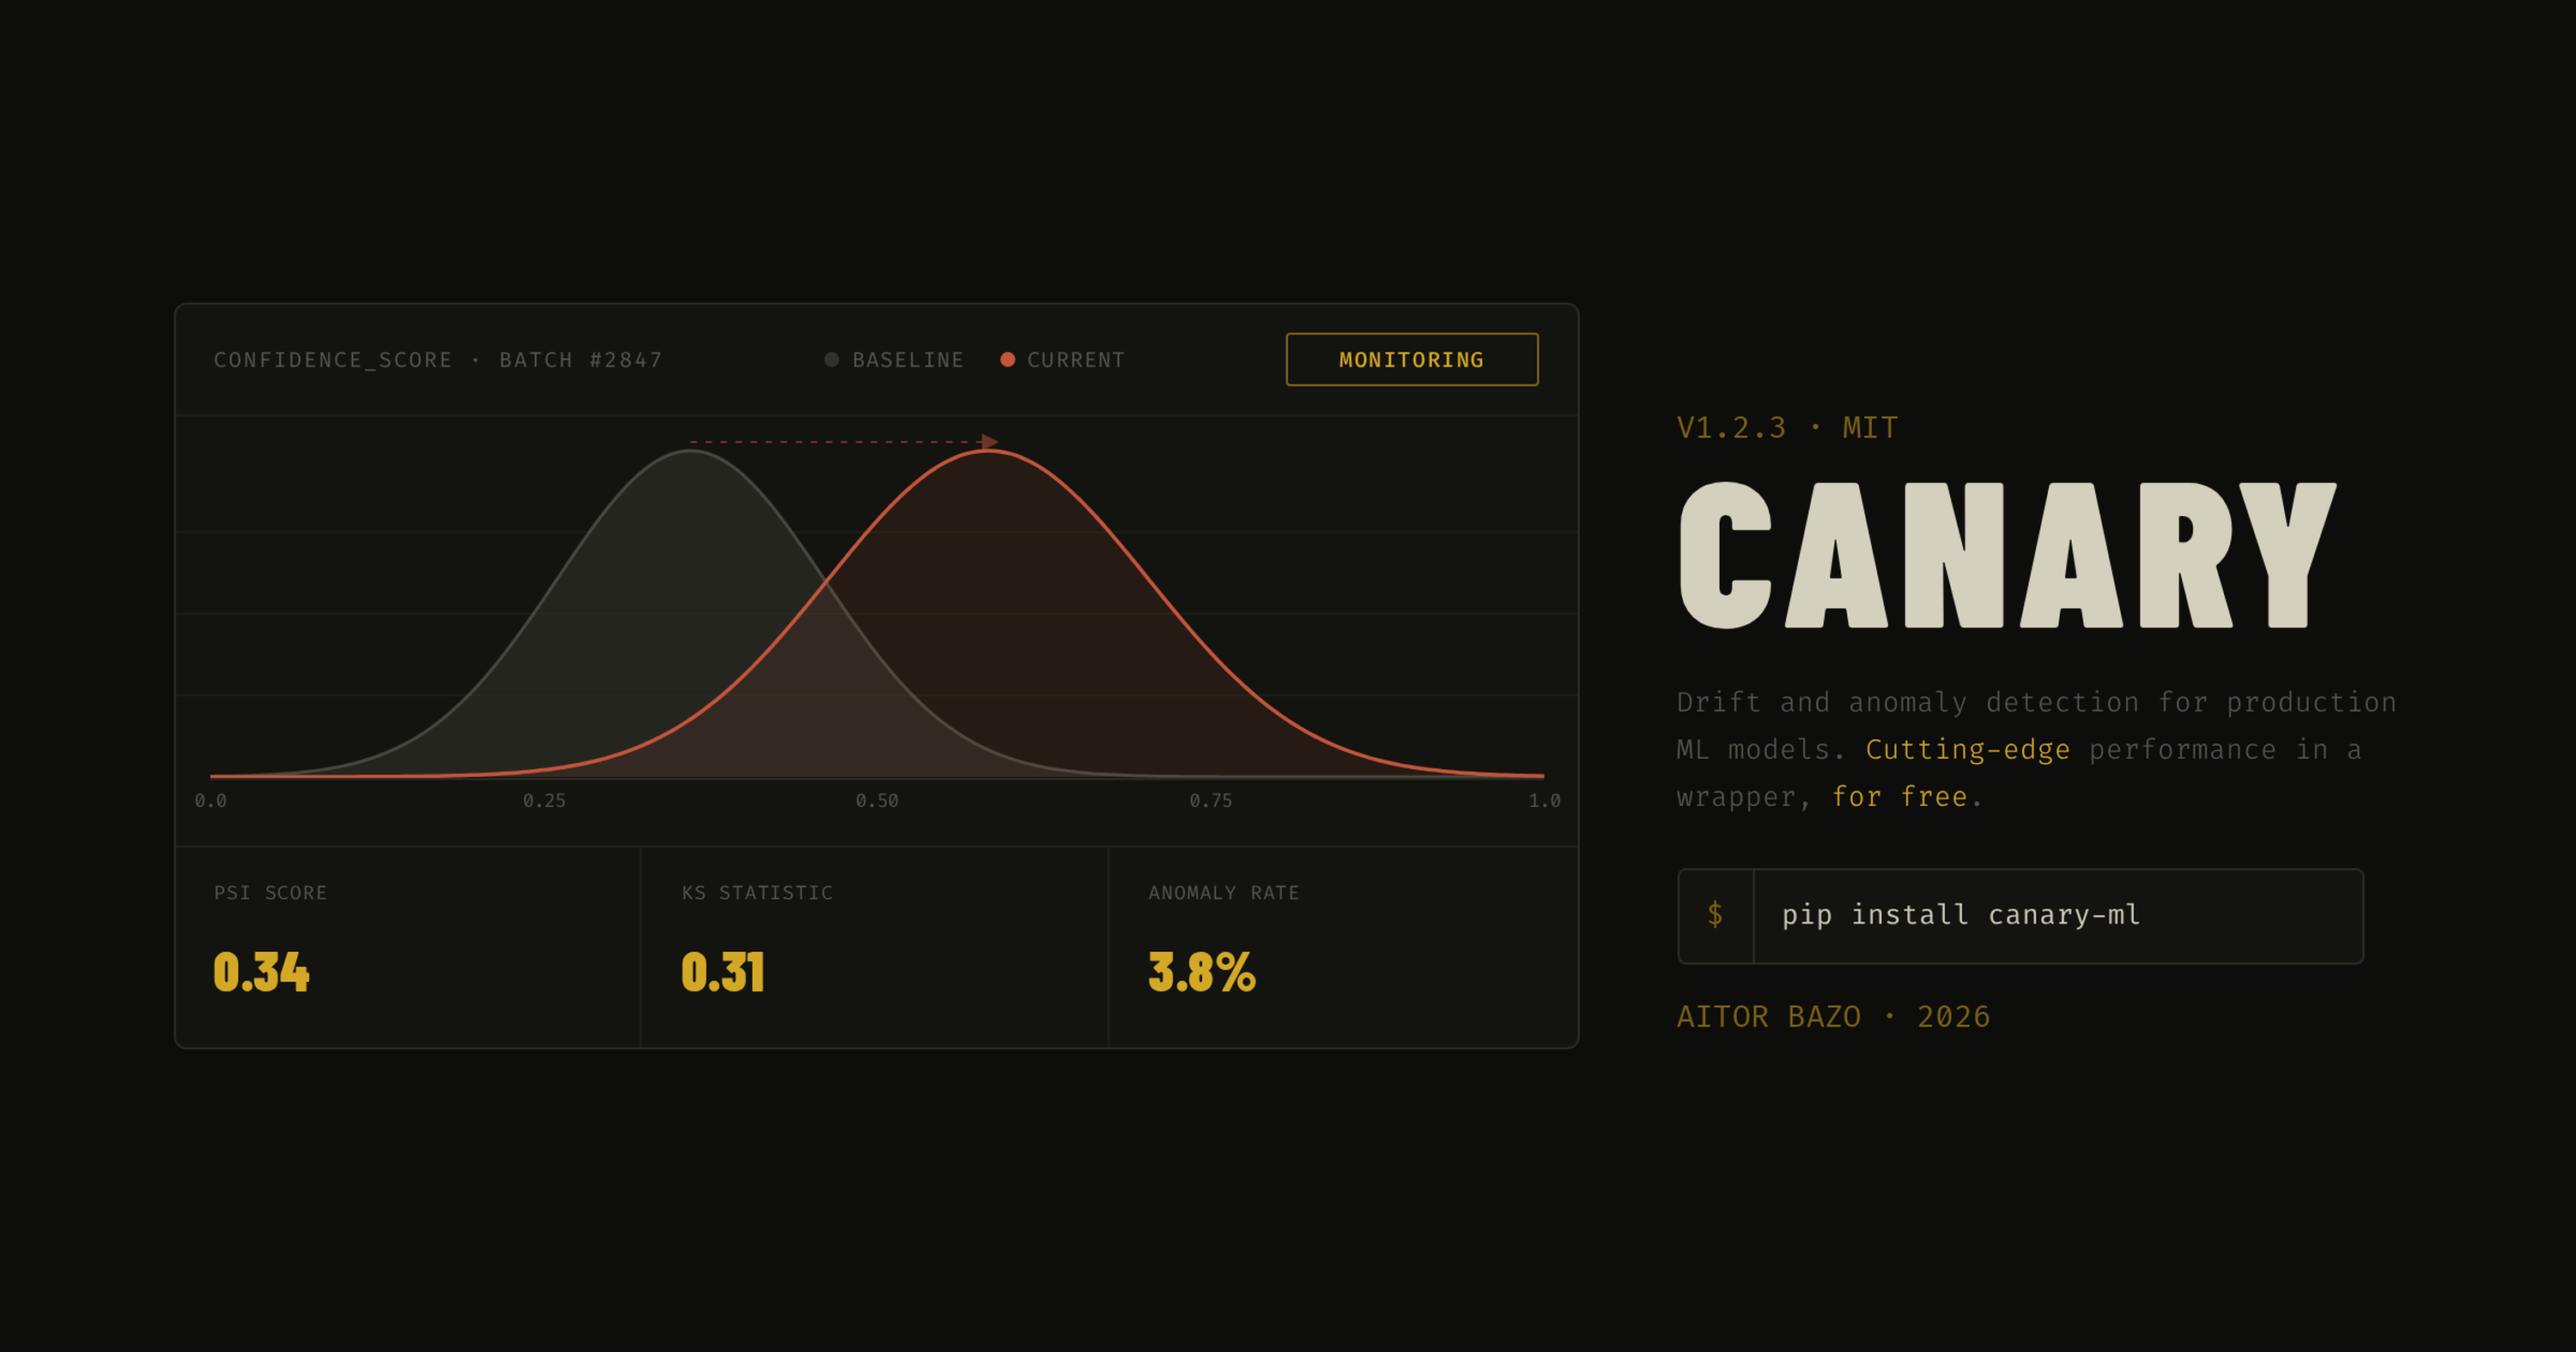
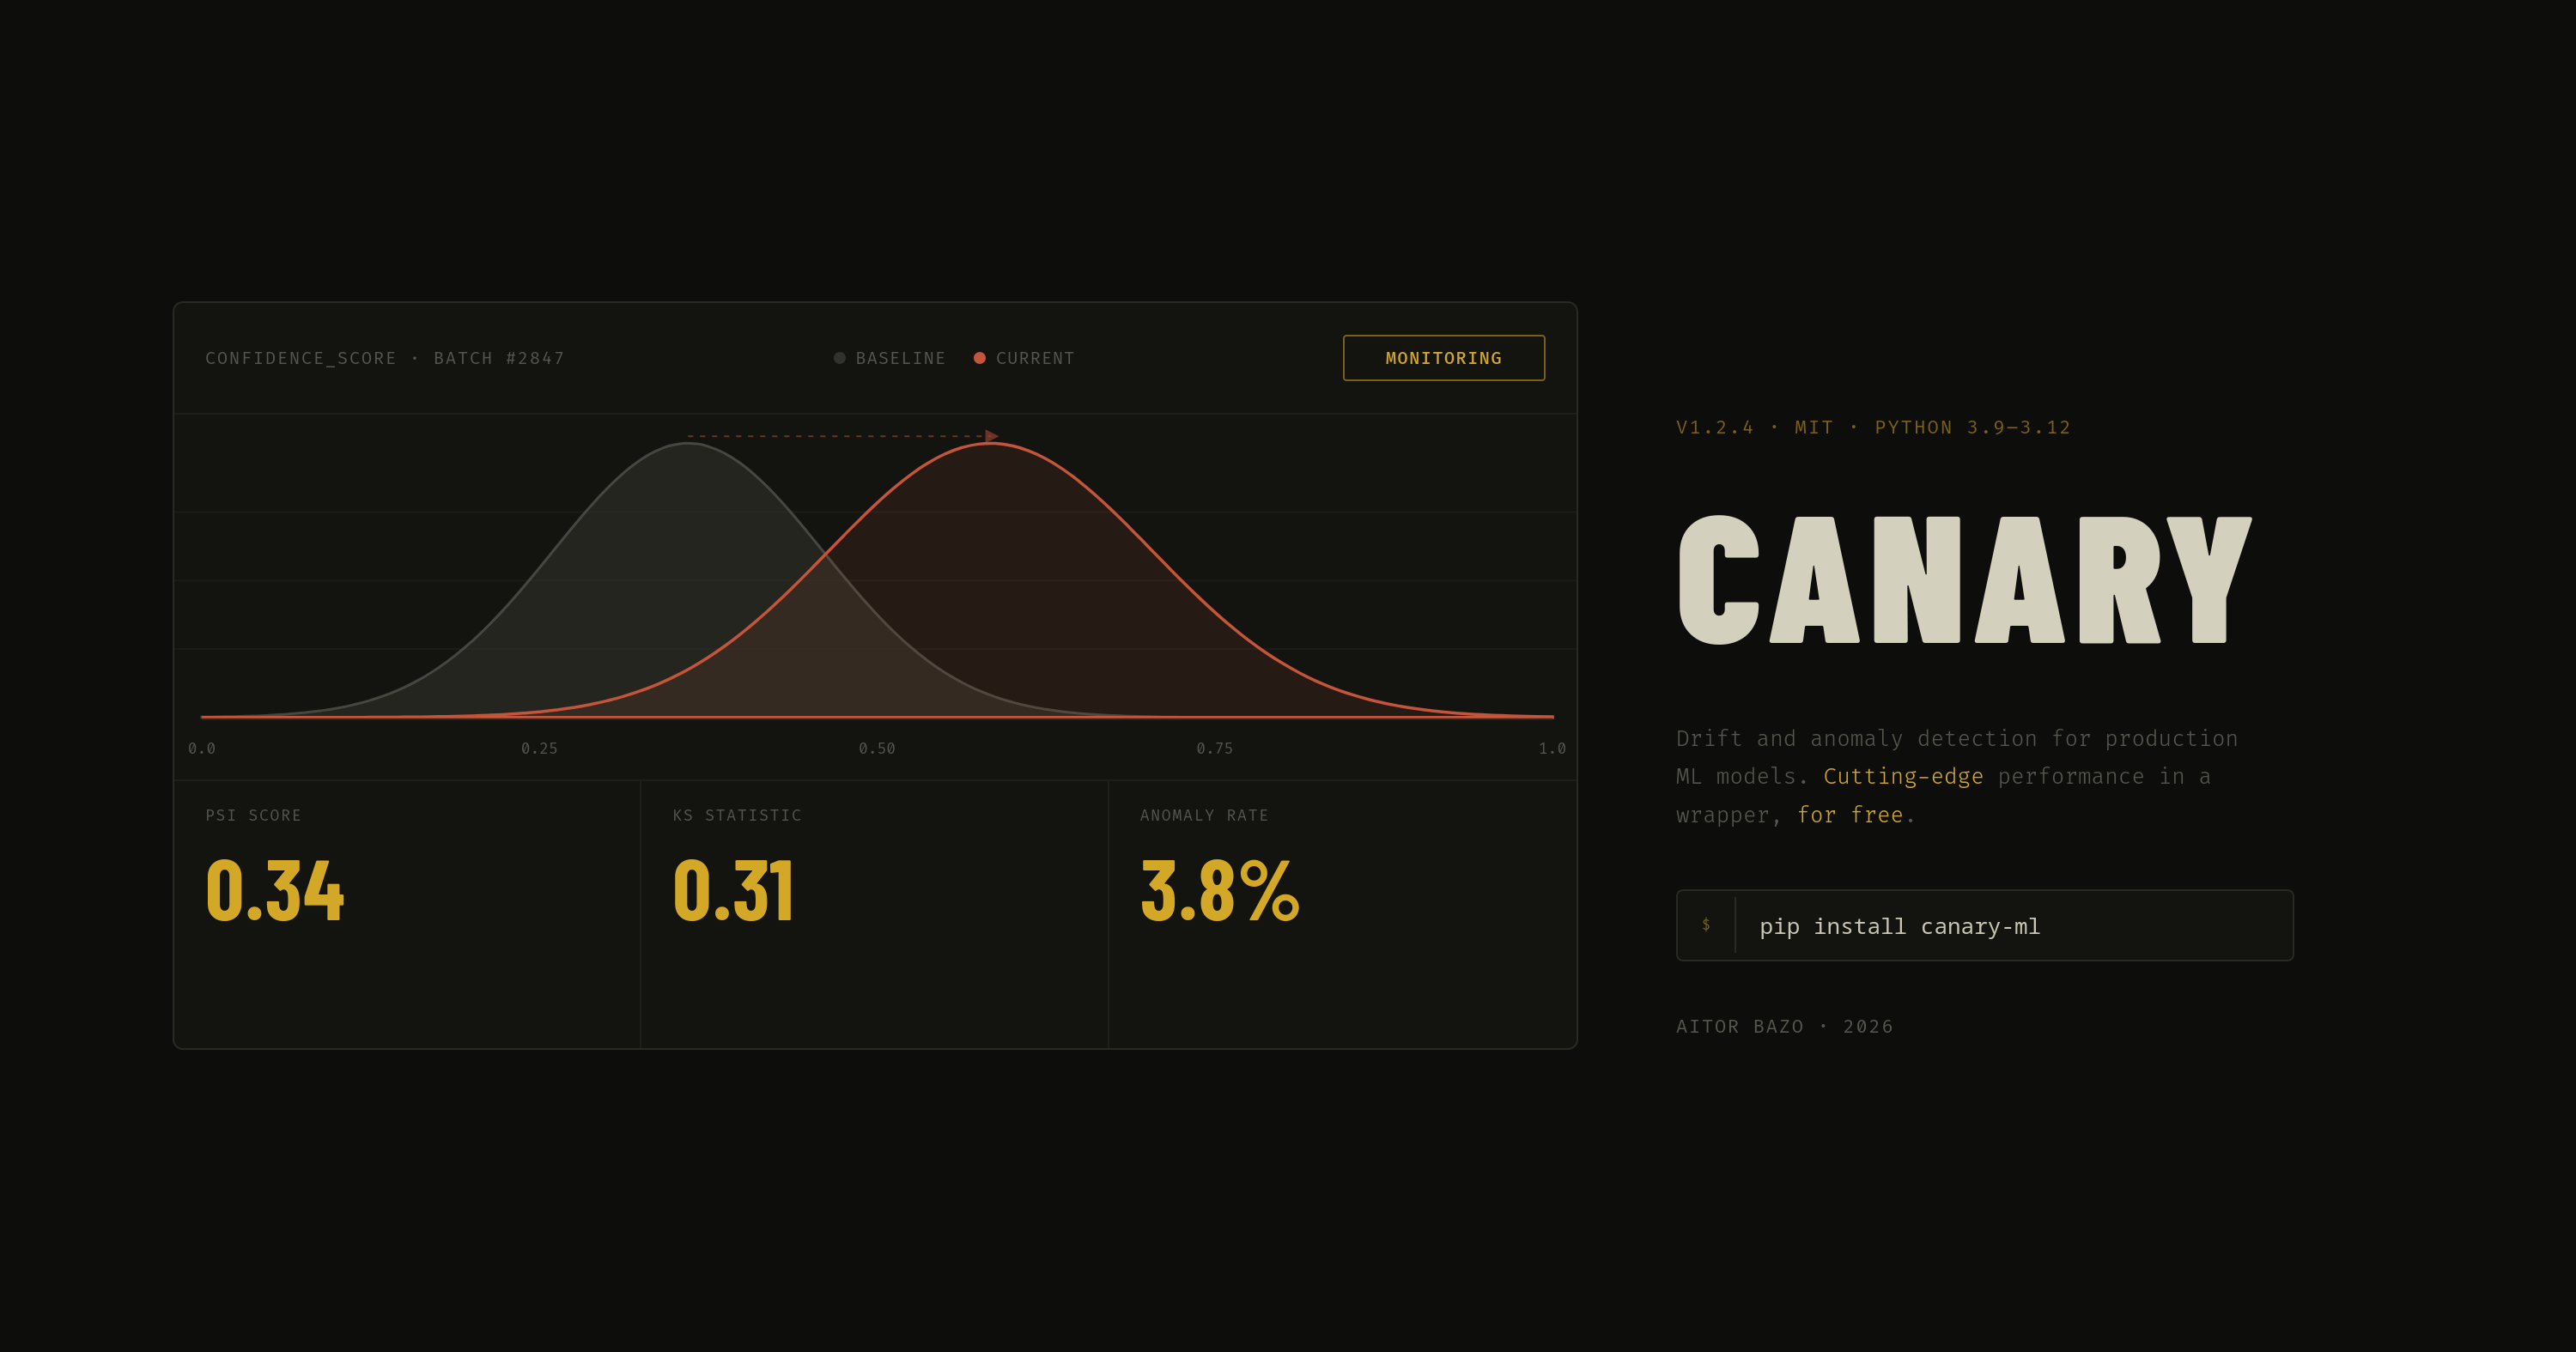
v1.2.4: PyPI license metadata, dashboard localhost binding, audit-5 fixes, og:image version bump

diff --git a/docs/guide.html b/docs/guide.html
@@ -26,7 +26,7 @@
       --violet:  #9a7ed0;
     }
 
-    html { scroll-behavior: smooth; }
+    html { scroll-behavior: smooth; -webkit-text-size-adjust: 100%; -moz-text-size-adjust: 100%; text-size-adjust: 100%; }
 
     body {
       background: var(--bg);
@@ -65,13 +65,13 @@
       grid-template-columns: 220px 1fr;
       max-width: 1200px;
       margin: 0 auto;
-      padding-top: 72px;
+      padding-top: 90px;
       min-height: 100vh;
     }
 
     /* SIDEBAR */
     .sidebar {
-      position: sticky; top: 72px; height: calc(100vh - 72px);
+      position: sticky; top: 90px; height: calc(100vh - 90px);
       overflow-y: auto; padding: 36px 28px 36px 52px;
       border-right: 1px solid var(--border);
     }
@@ -347,7 +347,7 @@
         <tr><td><code>alert_threshold</code></td><td><code>0.2</code></td><td>PSI score above which a drift alert fires</td></tr>
         <tr><td><code>performance_threshold</code></td><td><code>0.05</code></td><td>Accuracy drop (percentage points) below reference that fires a performance alert. Requires <code>predict_proba</code>.</td></tr>
         <tr><td><code>log_path</code></td><td><code>"./canary_logs"</code></td><td>Directory for <code>monitor.jsonl</code> and <code>reference.json</code></td></tr>
-        <tr><td><code>verbose</code></td><td><code>False</code></td><td>Print a rich alert panel to stdout when an alert fires</td></tr>
+        <tr><td><code>verbose</code></td><td><code>True</code></td><td>Print a rich alert panel to stdout when an alert fires</td></tr>
         <tr><td><code>on_alert</code></td><td><code>None</code></td><td>Callback function called with the <code>DriftReport</code> on alert</td></tr>
       </table>
 
@@ -680,7 +680,7 @@ E[accuracy] = mean( max(probas, axis=1) )   <span class="cm"># average over batc
       <div class="section-eyebrow">advanced</div>
       <h2>Alerts & callbacks</h2>
 
-      <p>When PSI exceeds <code>alert_threshold</code>, canary fires an alert. By default this is silent. Set <code>verbose=True</code> for a printed panel, or pass <code>on_alert</code> for programmatic handling.</p>
+      <p>When PSI exceeds <code>alert_threshold</code>, canary fires an alert. By default a rich panel is printed to stdout (<code>verbose=True</code>). Set <code>verbose=False</code> to suppress console output, or pass <code>on_alert</code> for programmatic handling.</p>
 
       <pre><code><span class="kw">def</span> <span class="id">notify</span>(report):
     <span class="cm"># report is a DriftReport with all metrics attached</span>
@@ -800,6 +800,8 @@ const observer = new IntersectionObserver(entries => {
 }, { rootMargin: '-20% 0px -70% 0px' });
 
 document.querySelectorAll('.section[id]').forEach(s => observer.observe(s));
+
+
 </script>
 </body>
 </html>

diff --git a/docs/demo.html b/docs/demo.html
@@ -10,6 +10,8 @@
   <style>
     *, *::before, *::after { box-sizing: border-box; margin: 0; padding: 0; }
 
+    html { -webkit-text-size-adjust: 100%; -moz-text-size-adjust: 100%; text-size-adjust: 100%; }
+
     :root {
       --bg:        #0d0d0b;
       --surface:   #131310;
@@ -216,7 +218,6 @@
     @media (max-width: 860px) {
       #header { padding: 14px 20px; height: 62px; }
       #cards  { grid-template-columns: repeat(2,1fr); }
-      #heatmap { overflow-x: auto; -webkit-overflow-scrolling: touch; }
     }
 
     @media (max-width: 500px) {
@@ -684,10 +685,10 @@ function renderHeatmap() {
   const totalBatches = S.entries.length;
   const startIdx     = totalBatches - entries.length;
   const batchLabels  = entries.map((_, i) => `B${startIdx + i + 1}`);
-  const nameW   = 110;
   const panelW  = el.getBoundingClientRect().width || 600;
+  const nameW   = panelW < 480 ? 60 : 110;
   const gapPx   = entries.length * 2;
-  const cellW   = Math.max(8, (panelW - nameW - 10 - gapPx) / entries.length);
+  const cellW   = Math.max(2, (panelW - nameW - 10 - gapPx) / entries.length);
   const colsTemplate = `${nameW}px repeat(${entries.length}, ${cellW}px)`;
 
   // Thin out labels when cells are too narrow for "B##" to fit without overlapping.

diff --git a/docs/index.html b/docs/index.html
@@ -29,7 +29,7 @@
       --red:     #bf4040;
     }
 
-    html { scroll-behavior: smooth; }
+    html { scroll-behavior: smooth; -webkit-text-size-adjust: 100%; -moz-text-size-adjust: 100%; text-size-adjust: 100%; }
 
     body {
       background: var(--bg);
@@ -72,7 +72,7 @@
 
     /* HERO */
     .hero {
-      padding: 72px 52px 36px;
+      padding: 90px 52px 36px;
       display: grid;
       grid-template-columns: 5fr 7fr;
       gap: 44px;
@@ -275,7 +275,7 @@
 
 <section class="hero">
   <div class="hero-left">
-    <div class="hero-eyebrow">v1.2.3 · MIT · Python 3.9–3.12</div>
+    <div class="hero-eyebrow">v1.2.4 · MIT · Python 3.9–3.12</div>
     <h1>CANARY</h1>
     <p class="hero-sub">Drift and anomaly detection for production ML models. <span style="color:var(--yellow)">Cutting-edge</span> performance in a wrapper, <span style="color:var(--yellow)">for free</span>.</p>
     <div class="install-row">

diff --git a/canary_ml/monitor.py b/canary_ml/monitor.py
@@ -121,10 +121,6 @@ class ModelMonitor:
         self._executor.shutdown(wait=True, cancel_futures=False)
         self._executor = ThreadPoolExecutor(max_workers=1, thread_name_prefix="canary")
 
-    def _flush(self) -> None:
-        """Alias for wait(). For backwards compatibility with existing tests."""
-        self.wait()
-
     def get_history(self, n: int = 50) -> list[dict[str, Any]]:
         """Return the last *n* log entries."""
         return self._log.read_last(n)
@@ -138,10 +134,21 @@ class ModelMonitor:
         self._reference_outputs = _safe_predict(self._model, self._reference)
         self._save_reference_sample()
 
-    def serve_dashboard(self, port: int = 8501) -> None:
-        """Launch the canary dashboard server in a background thread."""
+    def serve_dashboard(self, port: int = 8501, *, host: str = "127.0.0.1") -> None:
+        """Launch the canary dashboard server in a background thread.
+
+        Raises OSError if the port is already in use (e.g. calling this
+        twice, or another process already bound to it) — this happens on
+        the calling thread, unlike monitoring itself.
+
+        host="127.0.0.1" (default): localhost-only. Pass host="0.0.0.0" to
+        make the dashboard reachable from other machines on the network —
+        only do this if you understand that monitor.jsonl (and the
+        unauthenticated /api/data, /api/reference endpoints) may contain
+        raw feature data.
+        """
         from canary_ml import server as _server
-        _server.start(self._log_path, port=port)
+        _server.start(self._log_path, port=port, host=host)
         from rich.console import Console
         Console().print(f"[bold yellow]canary[/bold yellow] dashboard → http://localhost:{port}")
 

diff --git a/canary_ml/server.py b/canary_ml/server.py
@@ -65,13 +65,25 @@ class _Handler(BaseHTTPRequestHandler):
         pass
 
 
-def start(log_path: str | Path, port: int = 8501, *, block: bool = False) -> HTTPServer:
+def start(
+    log_path: str | Path,
+    port: int = 8501,
+    *,
+    host: str = "127.0.0.1",
+    block: bool = False,
+) -> HTTPServer:
     """Start the canary dashboard server.
+
+    host="127.0.0.1" (default): localhost-only, matching the printed URL.
+    Pass host="0.0.0.0" to make the dashboard reachable from other machines
+    on the network — only do this if you understand that monitor.jsonl
+    (and the unauthenticated /api/data, /api/reference endpoints) may
+    contain raw feature data.
 
     block=False (default): runs in a daemon thread — use inside ModelMonitor.
     block=True: blocks the calling thread — use when running as __main__.
     """
-    server = HTTPServer(("", port), _Handler)
+    server = HTTPServer((host, port), _Handler)
     server.log_path = str(log_path)
     if block:
         server.serve_forever()

diff --git a/tests/test_callbacks.py b/tests/test_callbacks.py
@@ -34,7 +34,7 @@ def test_on_alert_called_when_alert_triggered(tmp_path):
     monitor = make_monitor(tmp_path, alert_threshold=0.0, on_alert=fired.append)
     # threshold=0.0 means any PSI > 0 triggers; drifted batch should fire
     monitor.predict(rng.normal(5, 1, (50, 4)))
-    monitor._flush()
+    monitor.wait()
     assert len(fired) >= 1
     assert isinstance(fired[0], DriftReport)
 
@@ -43,7 +43,7 @@ def test_on_alert_not_called_when_stable(tmp_path):
     fired = []
     monitor = make_monitor(tmp_path, alert_threshold=999.0, on_alert=fired.append)
     monitor.predict(rng.normal(0, 1, (50, 4)))
-    monitor._flush()
+    monitor.wait()
     assert len(fired) == 0
 
 
@@ -51,7 +51,7 @@ def test_on_alert_receives_correct_report(tmp_path):
     reports = []
     monitor = make_monitor(tmp_path, alert_threshold=0.0, on_alert=reports.append)
     monitor.predict(rng.normal(5, 1, (50, 4)))
-    monitor._flush()
+    monitor.wait()
     assert reports[0].alert_triggered is True
     assert isinstance(reports[0].psi_score, float)
 
@@ -63,14 +63,14 @@ def test_on_alert_exception_does_not_propagate(tmp_path):
     monitor = make_monitor(tmp_path, alert_threshold=0.0, on_alert=bad_callback)
     # Should not raise — callback errors are swallowed
     result = monitor.predict(rng.normal(5, 1, (50, 4)))
-    monitor._flush()
+    monitor.wait()
     assert result is not None
 
 
 def test_no_on_alert_is_fine(tmp_path):
     monitor = make_monitor(tmp_path)
     monitor.predict(rng.normal(0, 1, (50, 4)))
-    monitor._flush()
+    monitor.wait()
 
 
 # ── output distribution monitoring ───────────────────────────────────────────
@@ -86,7 +86,7 @@ def test_output_ks_present_in_log(tmp_path):
         verbose=False,
     )
     monitor.predict(rng.normal(0, 1, (50, 4)))
-    monitor._flush()
+    monitor.wait()
     entry = monitor.get_history(1)[-1]
     assert "output_ks" in entry
 
@@ -111,7 +111,7 @@ def test_output_ks_drifted_on_shifted_outputs(tmp_path):
     # Override model after baseline captured to simulate concept drift
     monitor._model = AlwaysOne()
     monitor.predict(rng.normal(0, 1, (100, 4)))
-    monitor._flush()
+    monitor.wait()
 
     report = monitor.get_report()
     assert report is not None
@@ -129,7 +129,7 @@ def test_output_ks_stable_on_clean_data(tmp_path):
         verbose=False,
     )
     monitor.predict(rng.normal(0, 1, (80, 4)))
-    monitor._flush()
+    monitor.wait()
     report = monitor.get_report()
     # DummyClassifier always predicts the same class — outputs identical,
     # KS statistic should be ~0

diff --git a/tests/test_cbpe.py b/tests/test_cbpe.py
@@ -96,7 +96,7 @@ def test_cbpe_disabled_without_predict_proba(tmp_path):
 def test_report_has_estimated_accuracy_after_predict(tmp_path):
     monitor = make_proba_monitor(tmp_path)
     monitor.predict(X_test)
-    monitor._flush()
+    monitor.wait()
     report = monitor.get_report()
     assert report.estimated_accuracy is not None
     assert 0.5 < report.estimated_accuracy <= 1.0
@@ -114,7 +114,7 @@ def test_report_cbpe_fields_none_without_predict_proba(tmp_path):
         verbose=False,
     )
     monitor.predict(X_test)
-    monitor._flush()
+    monitor.wait()
     report = monitor.get_report()
     assert report.estimated_accuracy is None
     assert report.performance_delta is None
@@ -133,7 +133,7 @@ def test_performance_alert_fires_on_large_drop(tmp_path):
     # Inject reference accuracy higher than any real estimate
     monitor._reference_estimated_accuracy = 1.0
     monitor.predict(X_test)
-    monitor._flush()
+    monitor.wait()
     report = monitor.get_report()
     assert report.performance_alert is True
     assert report.alert_triggered is True
@@ -144,7 +144,7 @@ def test_performance_alert_does_not_fire_within_threshold(tmp_path):
     # Set a very large threshold so no alert fires
     monitor._performance_threshold = 1.0
     monitor.predict(X_test)
-    monitor._flush()
+    monitor.wait()
     report = monitor.get_report()
     assert report.performance_alert is False
 
@@ -162,6 +162,6 @@ def test_callback_fires_on_performance_alert(tmp_path):
     )
     monitor._reference_estimated_accuracy = 1.0
     monitor.predict(X_test)
-    monitor._flush()
+    monitor.wait()
     assert len(fired) == 1
     assert fired[0].performance_alert is True

diff --git a/tests/test_monitor.py b/tests/test_monitor.py
@@ -37,7 +37,7 @@ def test_get_report_populates_after_predict(tmp_path):
     monitor = make_monitor(tmp_path)
     assert monitor.get_report() is None
     monitor.predict(X_test)
-    monitor._flush()
+    monitor.wait()
     report = monitor.get_report()
     assert report is not None
     assert report.n_samples == len(X_test)
@@ -47,7 +47,7 @@ def test_get_report_populates_after_predict(tmp_path):
 def test_log_written_to_disk(tmp_path):
     monitor = make_monitor(tmp_path)
     monitor.predict(X_test)
-    monitor._flush()
+    monitor.wait()
     log_file = tmp_path / "monitor.jsonl"
     assert log_file.exists()
     assert log_file.stat().st_size > 0
@@ -71,7 +71,7 @@ def test_predict_never_raises_even_if_internals_fail(tmp_path):
 
     # Should still return predictions without raising
     result = monitor.predict(X_test)
-    monitor._flush()
+    monitor.wait()
     assert result is not None
     assert len(result) == len(X_test)
 
@@ -80,7 +80,7 @@ def test_get_history_returns_list(tmp_path):
     monitor = make_monitor(tmp_path)
     monitor.predict(X_test)
     monitor.predict(X_test)
-    monitor._flush()
+    monitor.wait()
     history = monitor.get_history(n=5)
     assert isinstance(history, list)
     assert len(history) <= 5

diff --git a/canary_ml/report.py b/canary_ml/report.py
@@ -31,10 +31,9 @@ class DriftReport:
 
     def summary(self) -> str:
         """One-line human-readable summary."""
-        drifted = sum(1 for v in self.ks_results.values() if v.get("drifted"))
         parts = [
             f"DriftReport | psi={self.psi_score:.2f}",
-            f"features_drifted={drifted}",
+            f"features_drifted={self.features_drifted}",
             f"anomaly_rate={self.anomaly_rate * 100:.1f}%",
         ]
         if self.estimated_accuracy is not None:

diff --git a/canary_ml/__init__.py b/canary_ml/__init__.py
@@ -2,4 +2,4 @@ from canary_ml.monitor import ModelMonitor
 from canary_ml.report import DriftReport
 
 __all__ = ["ModelMonitor", "DriftReport"]
-__version__ = "1.2.3"
+__version__ = "1.2.4"

diff --git a/canary_ml/alerts.py b/canary_ml/alerts.py
@@ -11,7 +11,7 @@ _console = Console()
 
 def format_alert(report: DriftReport) -> None:
     """Print a rich-formatted alert panel to the terminal."""
-    drifted = sum(1 for v in report.ks_results.values() if v.get("drifted"))
+    drifted = report.features_drifted
 
     if report.alert_triggered:
         reasons = report.alert_reasons

diff --git a/tests/test_server.py b/tests/test_server.py
@@ -36,7 +36,7 @@ def live_server(tmp_path_factory):
     )
     monitor.predict(rng.normal(0, 1, (30, 4)))
     monitor.predict(rng.normal(2, 1, (30, 4)))  # drifted batch
-    monitor._flush()  # ensure both batches are written before server starts
+    monitor.wait()  # ensure both batches are written before server starts
 
     start_server(log, port=PORT)
     # Brief wait for the daemon thread to bind